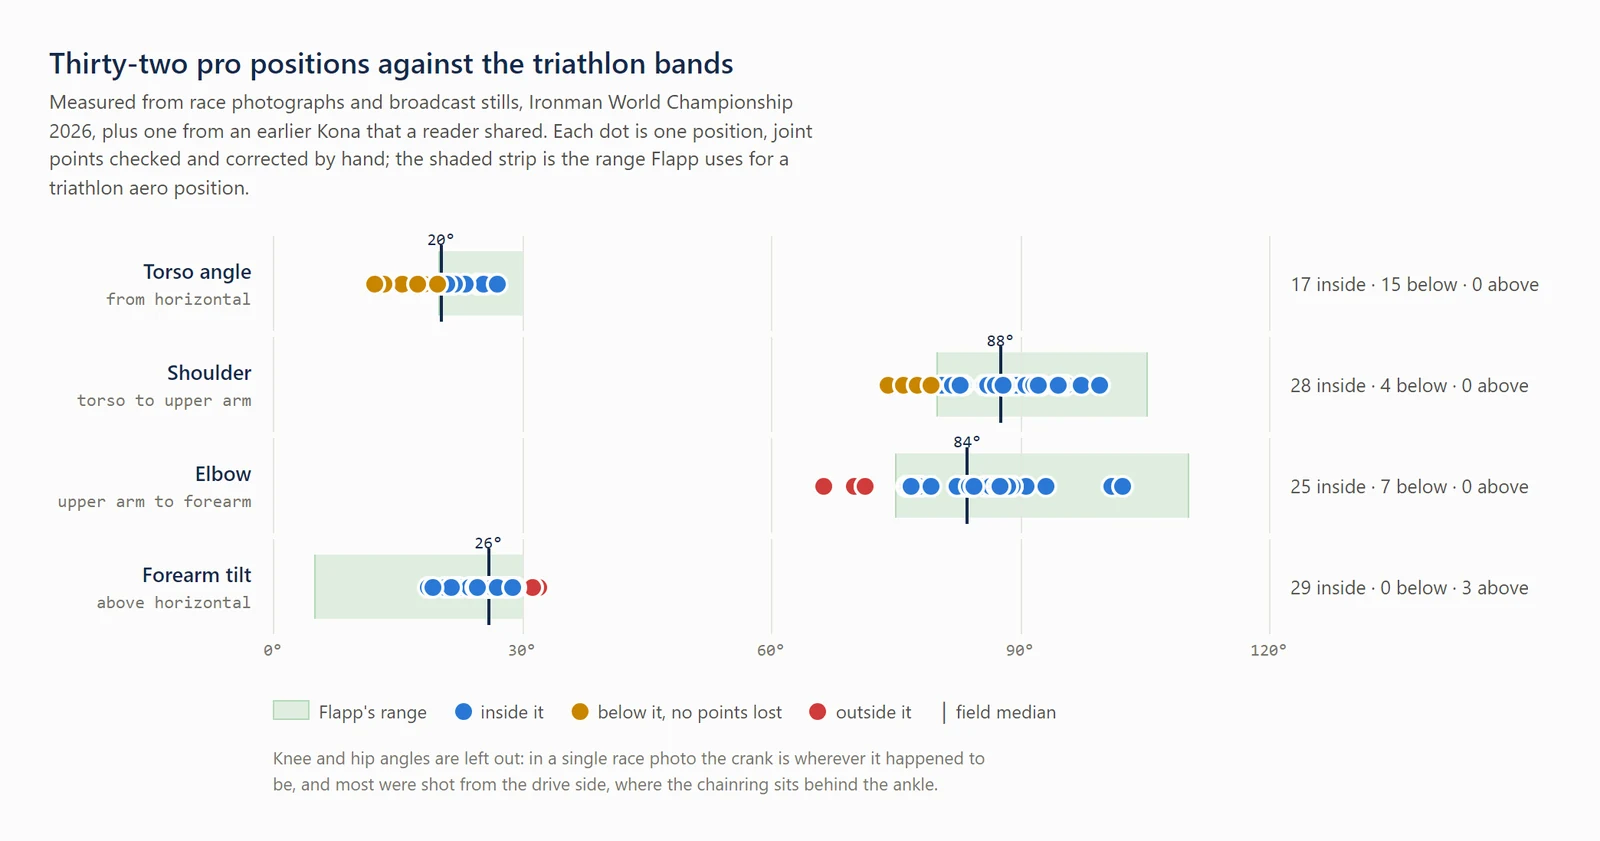
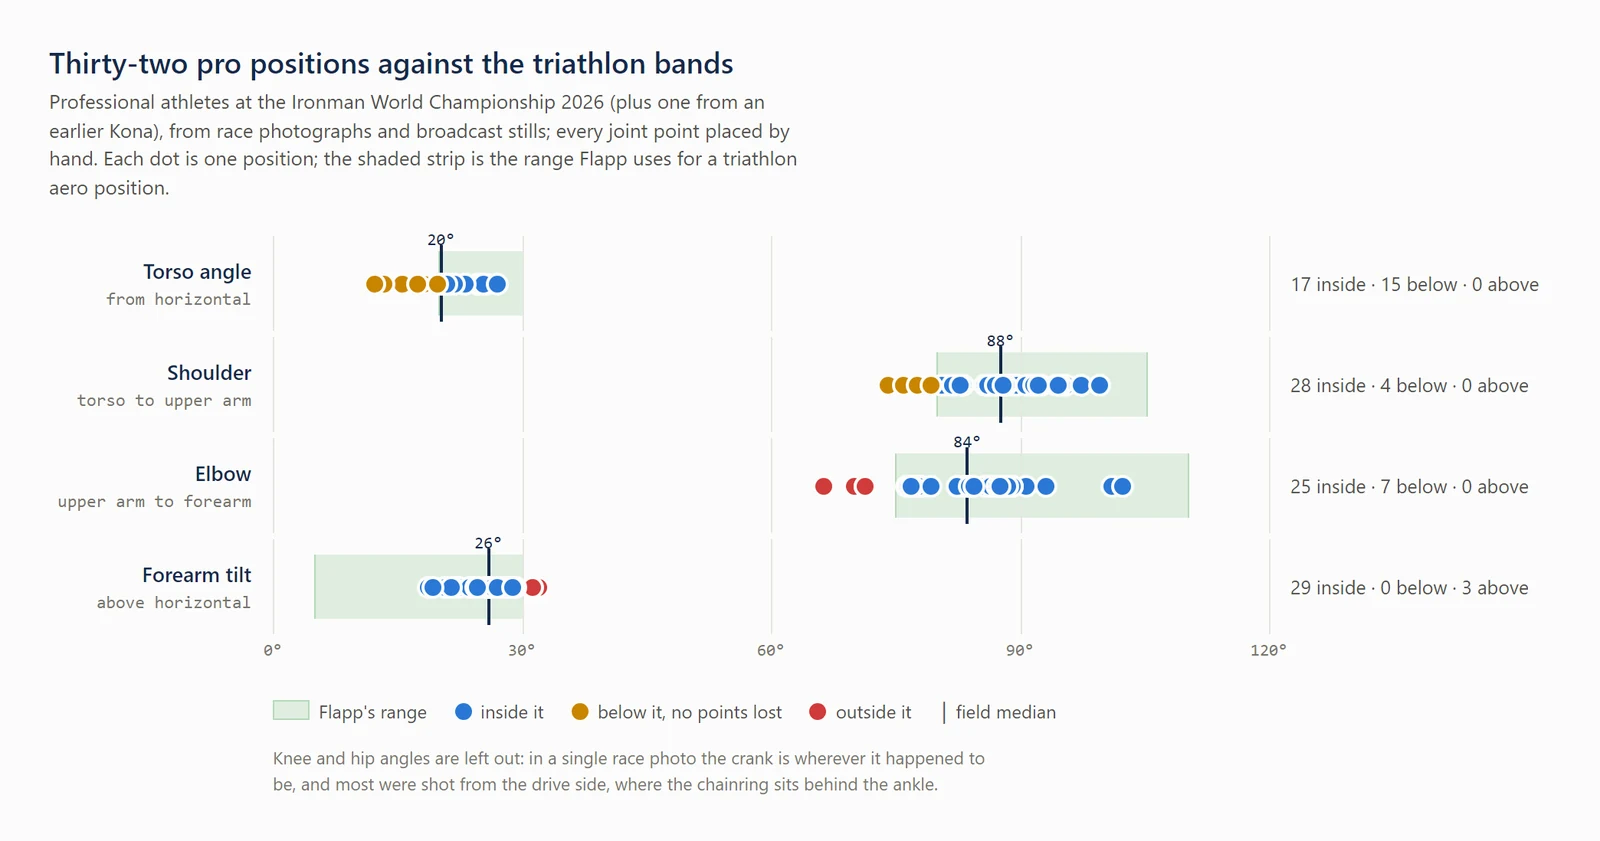
Kona field chart: a neutral subtitle -- who and how measured, no history of corrections

Changed region(s): [[0.0312, 0.0927, 0.5, 0.2473]]

diff --git a/backend/scripts/field_study/field_chart.html b/backend/scripts/field_study/field_chart.html
@@ -29,7 +29,7 @@
 </style>
 <div class="viz-root" id="viz">
   <h2>Fifteen pro positions against the triathlon bands</h2>
-  <p class="sub">Measured from race photographs and broadcast stills, Ironman World Championship 2026, plus one from an earlier Kona that a reader shared. Each dot is one position, joint points checked and corrected by hand; the shaded strip is the range Flapp uses for a triathlon aero position.</p>
+  <p class="sub">Professional athletes at the Ironman World Championship 2026 (plus one from an earlier Kona), from race photographs and broadcast stills; every joint point placed by hand. Each dot is one position; the shaded strip is the range Flapp uses for a triathlon aero position.</p>
   <div id="rows"></div>
   <div class="scale"><div></div><div class="ticks" id="ticks"></div><div></div></div>
   <div class="key">
